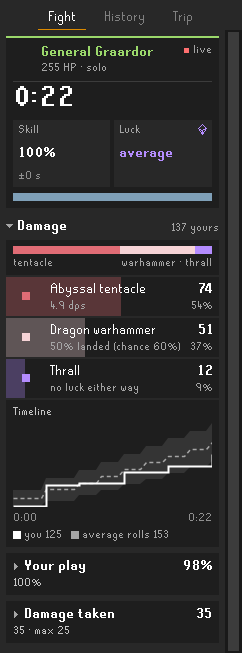
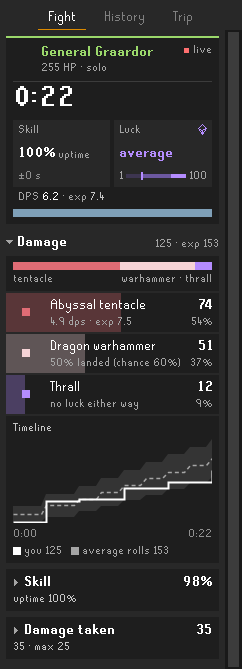
T-197: re-rendered on T-199; the README and changelog name its figures
Pictures from master eef42ce: "Skill" on the card, the section and the overlay; the live luck track;
DPS · exp on the card and weapon rows; damage · exp in Damage's header; the labelled "skill · luck"
line. The README describes them with the panel's own labels, and the one sign rule.

Claude-Session: https://claude.ai/code/session_01X18etdM16w4AUQNJwybjo9

diff --git a/README.md b/README.md
@@ -7,7 +7,7 @@ It works out what each of your attacks should have done, from your gear, levels,
 ## What it shows
 
 ### The kill card
-The side panel's Fight tab opens on a card with three numbers: your **Time**, your **Skill** and your **Luck**. Everything else folds below it, one click away.
+The side panel's Fight tab opens on a card with three numbers: your **Time**, your **Skill** and your **Luck**, with your DPS against expected under them (`DPS 7.5 · exp 7.6`). Damage is open below it; the rest folds, one click away, each with its number on its folded line.
 
 <table>
 <tr>
@@ -28,13 +28,13 @@ The side panel's Fight tab opens on a card with three numbers: your **Time**, yo
   - **Clean run:** not one idle tick, and your prayer, gear and boosts as good as they could be;
   - **3 A's in a row** (and longer streaks): grade A or better on your last three kills here.
 
-During the fight the card shows the clock, the share of the fight you've spent attacking with a strip of your idle moments so far, and your luck so far. Every number explains itself in its tooltip.
+During the fight the card shows the clock, your uptime (the share of the fight you've spent attacking) with a strip of your idle moments so far, your luck so far as a word and a marker on the 1–100 track (the roll itself is the kill's), and your DPS against expected. Every number explains itself in its tooltip, and the sign is the same everywhere: + is time gained, − time lost.
 
 **Celebrations** (on by default) is the card and its kill-end moment, when the roll lands and the grade shows. Turn it off under the plugin's Side panel settings for the plain Fight tab: the boss's title and four tiles, every section as you left it.
 
 ### Below the card
-- **Damage:** your damage by weapon, spell and special, each with its DPS against expected; your thrall, burn and the rest apart; at a boss with adds, the boss, its adds or both. A timeline of your damage against average rolls.
-- **Luck, Where the time went, Skill:** the luck curve; the kill's time split into best play, the ticks you lost and what luck saved or cost; uptime, prayer, gear and stat boost.
+- **Damage:** your damage against expected in its header (`234 · exp 240`); each weapon, spell and special with its DPS against expected (`6.8 dps · exp 7.2`), to judge which weapon does best against a boss or its adds; your thrall, burn and the rest apart; at a boss with adds, the boss, its adds or both. A timeline of your damage against average rolls.
+- **Luck, Where the time went, Skill:** the luck curve; the kill's time split into best play, what skill lost and what luck saved or cost (`skill −0.7 s · luck −1 s`); uptime, prayer, gear and stat boost.
 - **Defence:** when your special attacks (or your party's) lower the boss's Defence, the Defence left, each special against its chance, and what the drain was worth. A missed special counts as bad luck.
 - **Damage taken,** after the fight by kind. At a boss with attack rules (Vardorvis so far), the food you ate because of damage you could have avoided counts against your skill, and damage taken says how much was avoidable.
 - **Your party:** in a RuneLite party, the members' damage, DPS and share at the top of the Fight tab, and after a room their Luck and Skill, from members who run Luck vs Skill too; click one to see their Fight tab. Members who don't run it are listed by name and picture; with just one of them, their damage is shown as about what the boss took that you didn't deal. Discord pictures show when RuneLite's Discord plugin provides them.

diff --git a/CHANGELOG.md b/CHANGELOG.md
@@ -5,6 +5,7 @@ Luck vs Skill is its own Plugin Hub entry. It began as a fork of Arodab's PvM Pe
 
 **After every kill**
 - A kill card at the top of the side panel: your time against your usual (with a gold PB on a new best), your Skill as a share of a perfect fight with a grade from S to C, and your Luck as a roll from 1 to 100.
+- DPS against expected on the card and on every weapon row, and damage against expected in Damage's header.
 - Grades are against your own last 50 kills at that boss, scored the same way, and come from skill only, never luck.
 - Badges for a 100th kill, a Flawless kill (no avoidable damage, at bosses with attack rules), a Clean run (no idle tick, best setup) and streaks of A's.
 - Luck in seconds as well as the roll: what the dice saved or cost you, and your time with luck taken out.
@@ -20,7 +21,7 @@ Luck vs Skill is its own Plugin Hub entry. It began as a fork of Arodab's PvM Pe
 **During the fight**
 - The fight overlay: damage against expected, Luck and Skill, live, and the full breakdown after the kill.
 - The DPS overlay: your weapon's DPS, max hit and accuracy against the monster it names, and its special's. It can stay up outside fights.
-- The kill card live: the clock, the share of the fight you've spent attacking with a strip of your idle moments, and your luck so far.
+- The kill card live: the clock, your uptime with a strip of your idle moments, your luck so far on its track, and your DPS against expected.
 - Only your own output: nothing about the boss's attacks, and no comparison with your average until the fight is over.
 
 **With a party**
